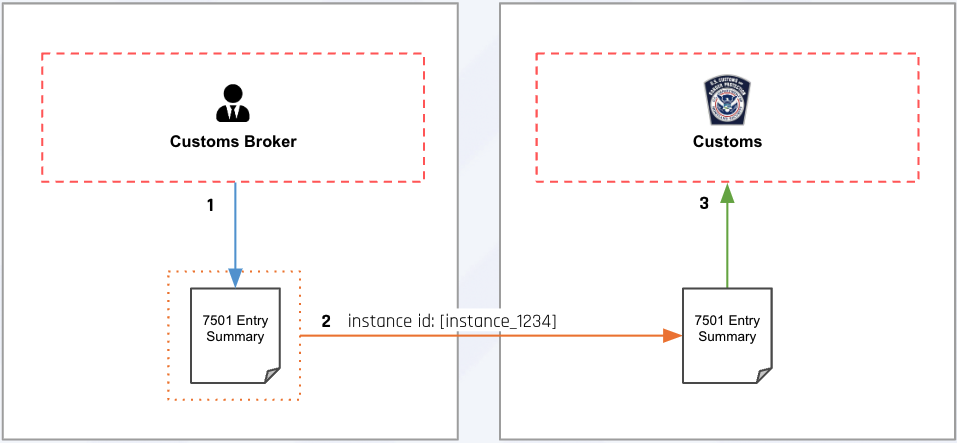
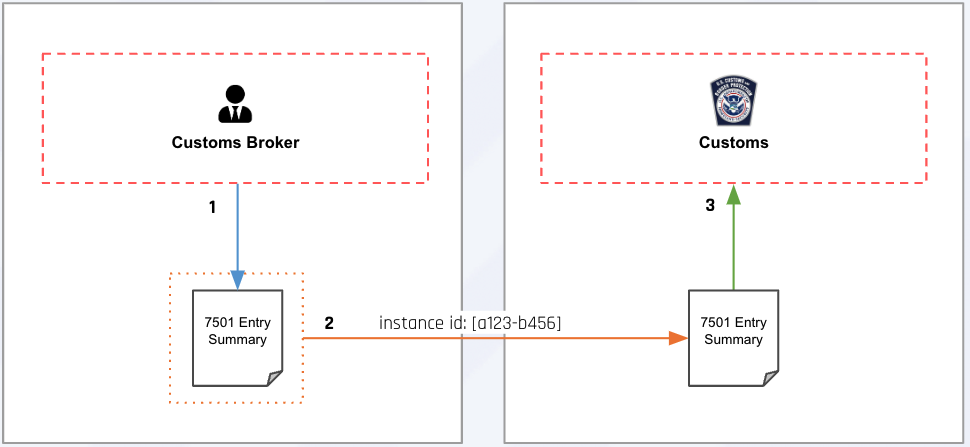
feat: entry summary instance id

diff --git a/docs/index.html b/docs/index.html
@@ -870,7 +870,7 @@ Issuers are advised to review the JSON-LD and all associated terms before issuin
           Express Carrier issues House Bill of Lading (1) which is presented along with other documents associated to the Packing List (2) to the Customs Broker. 
         </p>
         <p>
-          The Customs Broker Issues a 3461 Immediate Delivery (3) and Intent To Import (4) certificates. The documents are submitted to Customs through a Traceable Presentation with a defined workflow instance id (5).
+          The Customs Broker Issues a 3461 Immediate Delivery (3) and Intent To Import (4) certificates. The documents are submitted to Customs through a Traceable Presentation with a defined workflow instance id “a123-b456” (5).
         </p>
         <p>
           Customs verifies the pouch of documents associated with the shipment (6) and initiates importing procedures based on submitted data (7). 
@@ -881,7 +881,7 @@ Issuers are advised to review the JSON-LD and all associated terms before issuin
           <figcaption>Import Procedures Workflow</figcaption>
         </figure>
         <p>
-          The Customs Broker completes the importing procedures by issuing the 7501 Entry Summary (1), presenting it to Customs (2), associating it to the earlier submission by correlating the workflow instance id ("instance_1234").
+          The Customs Broker completes the importing procedures by issuing the 7501 Entry Summary (1), presenting it to Customs (2), associating it to the earlier submission by correlating the workflow instance id ("a123-b456").
         </p>
         <p>
           Customs verifies the Entry Summary (3) and completes the importing assessment. 
